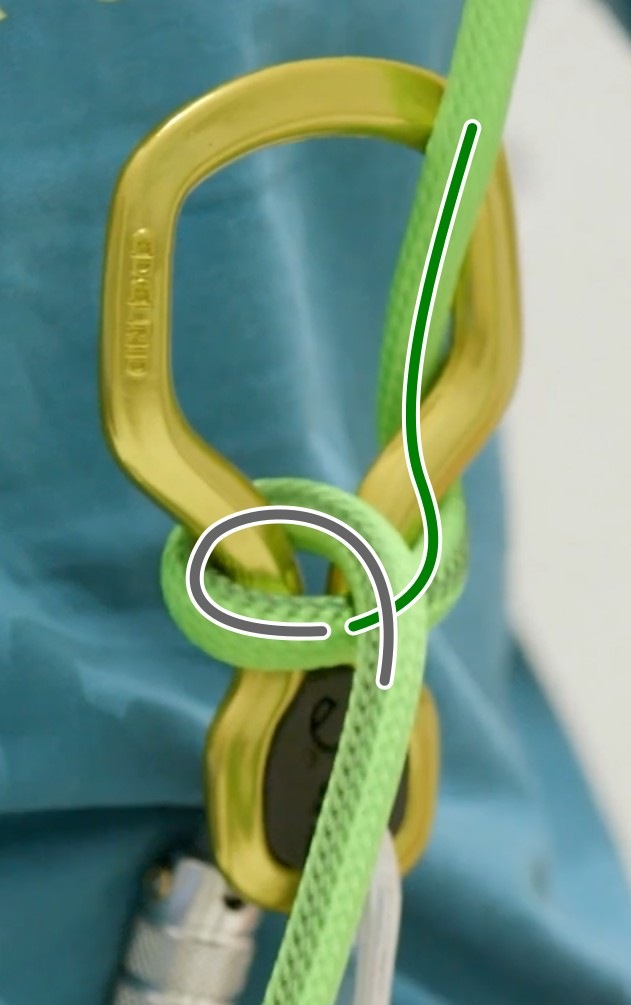
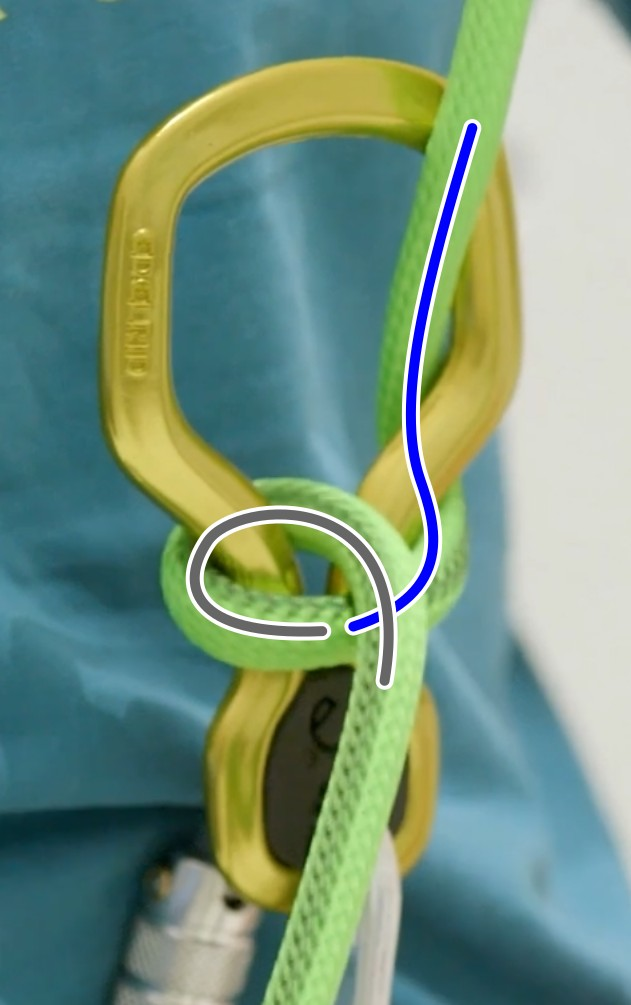
Make markings more contrasty

Changed region(s): [[0.6323, 0.1234, 0.7528, 0.5861], [0.542, 0.5861, 0.6022, 0.6478], [0.6323, 0.5861, 0.6624, 0.6169]]

diff --git a/index.html b/index.html
@@ -24,7 +24,7 @@
       --accent: #b8501f;
       --info: #2f6690;
       --info-bg: #e8f0f7;
-      --mark-green: #1e7b1e;
+      --mark-blue: #1f4fd8;
       --mark-red: #d81b1b;
       --mark-gray: #6e6e78;
       color-scheme: light;
@@ -43,7 +43,7 @@
         --accent: #e8875a;
         --info: #7fb3dc;
         --info-bg: #1f2a33;
-        --mark-green: #5cc45c;
+        --mark-blue: #6f94ff;
         --mark-red: #f05a5a;
         --mark-gray: #a0a0aa;
         color-scheme: dark;
@@ -60,7 +60,7 @@
       --accent: #e8875a;
       --info: #7fb3dc;
       --info-bg: #1f2a33;
-      --mark-green: #5cc45c;
+      --mark-blue: #6f94ff;
       --mark-red: #f05a5a;
       --mark-gray: #a0a0aa;
       color-scheme: dark;
@@ -299,8 +299,8 @@
       min-width: 0;
     }
 
-    figcaption b.c-green {
-      color: var(--mark-green);
+    figcaption b.c-blue {
+      color: var(--mark-blue);
     }
 
     figcaption b.c-red {
@@ -2084,19 +2084,19 @@
           <div>
             <a href="images/figure-eight-incorrect.jpg">
               <img src="images/figure-eight-incorrect.jpg" width="473" height="754" alt="A green rope threaded through a figure-8 belay device, with the brake strand leaving to the side. A
-                  red line marks the bend where the rope enters the device and a green line the outgoing strand.">
+                  red line marks the bend where the rope enters the device and a blue line the outgoing strand.">
             </a>
             <p class="subcap"><b>A.</b> Twists rope.</p>
           </div>
           <div>
             <a href="images/figure-eight-correct.jpg">
               <img src="images/figure-eight-correct.jpg" width="473" height="754" alt="The same figure-8 belay device with the brake strand held straight down. A gray line marks the bend
-                  where the rope enters the device and a green line the outgoing strand.">
+                  where the rope enters the device and a blue line the outgoing strand.">
             </a>
             <p class="subcap"><b>B.</b> Doesn't twist rope.</p>
           </div>
         </div>
-        <figcaption><b>Figure 9.</b> Two ways of holding the brake strand of a figure-8. <b class="c-green">Green
+        <figcaption><b>Figure 9.</b> Two ways of holding the brake strand of a figure-8. <b class="c-blue">Blue
             sections</b> cause a right-handed twist, <b class="c-red">red section</b> causes a left-handed twist.
           <b class="c-gray">Gray section</b> does not twist the rope, since <math>
             <mi>α</mi>
@@ -2125,7 +2125,7 @@
           </div>
           <div>
             <a href="images/grigri-b.jpg">
-              <img src="images/preview/grigri-b.jpg" width="1000" height="1000" alt="The same Grigri with the bend over the lip shifted the other way, marked with a green line, which
+              <img src="images/preview/grigri-b.jpg" width="1000" height="1000" alt="The same Grigri with the bend over the lip shifted the other way, marked with a blue line, which
                   spins the rope right-handed.">
             </a>
             <p class="subcap"><b>B.</b> Right-handed spin.</p>
